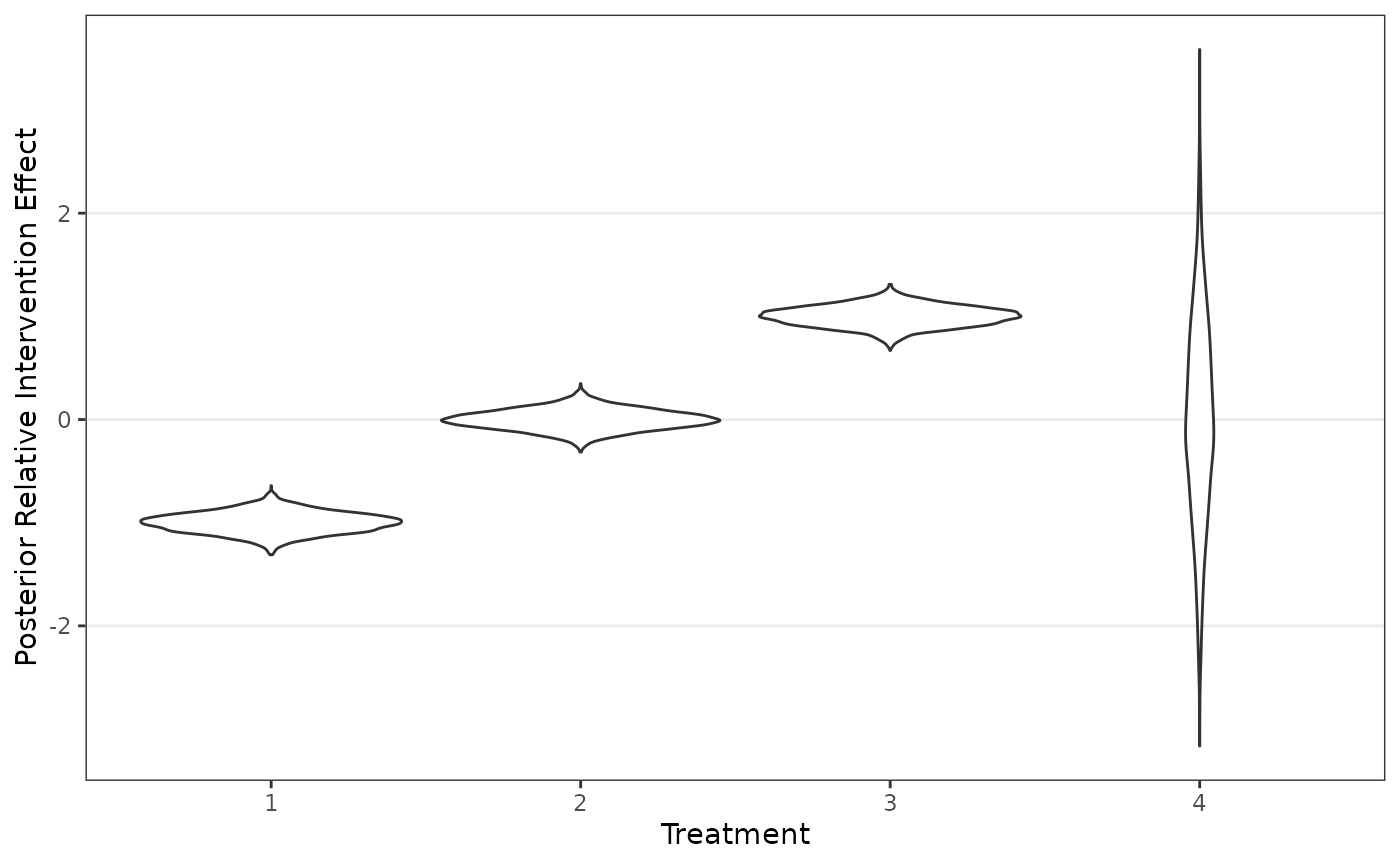
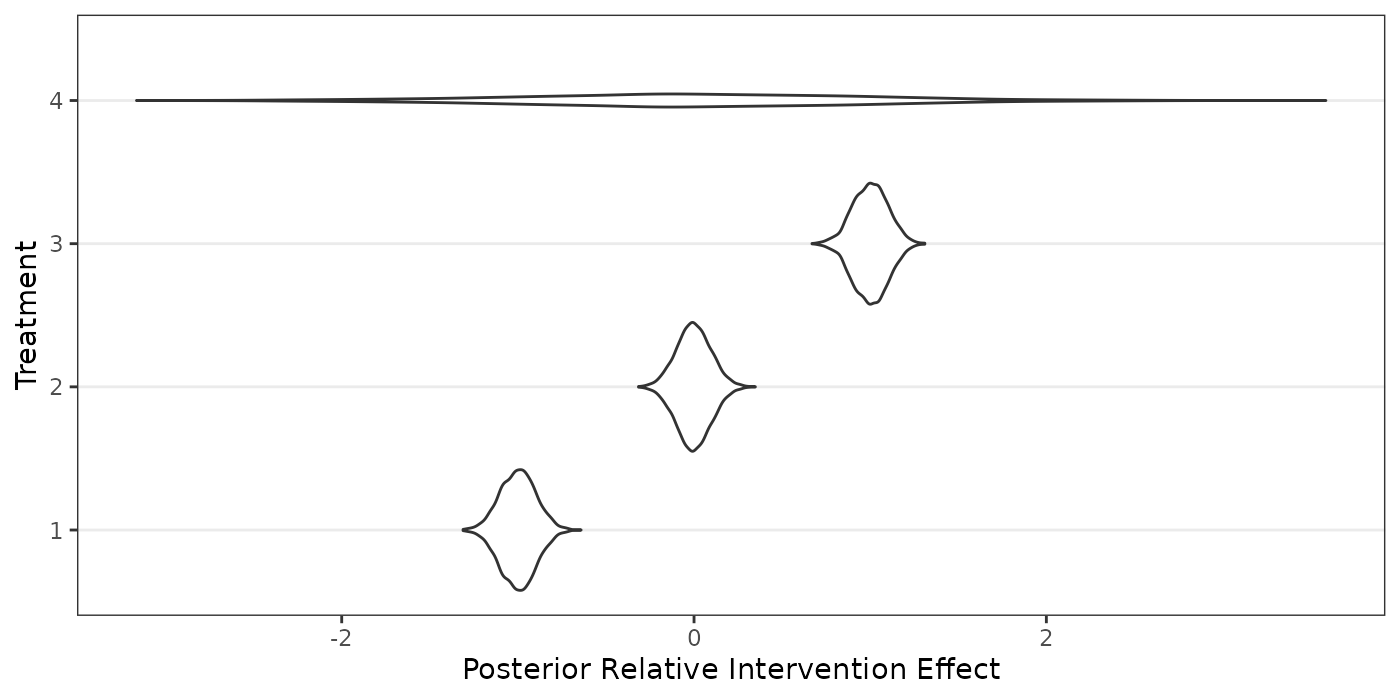
Deploying to gh-pages from @ pearce790/RaCE.NMA@e4cf61ace44ebfd546448b5421ebf51743363c7f 🚀

diff --git a/articles/tutorial.html b/articles/tutorial.html
@@ -93,27 +93,71 @@ packages.</p>
 <div class="sourceCode" id="cb2"><pre class="downlit sourceCode r">
 <code class="sourceCode R"><span><span class="va">mu_hat</span> <span class="op">&lt;-</span> <span class="fu"><a href="https://rdrr.io/r/base/c.html" class="external-link">c</a></span><span class="op">(</span><span class="op">-</span><span class="fl">1</span>, <span class="fl">0</span>, <span class="fl">1</span>, <span class="fl">0</span><span class="op">)</span></span>
 <span><span class="va">sigma_hat</span> <span class="op">&lt;-</span> <span class="fu"><a href="https://rdrr.io/r/base/c.html" class="external-link">c</a></span><span class="op">(</span><span class="fl">0.1</span>, <span class="fl">0.1</span>, <span class="fl">0.1</span>, <span class="fl">1</span><span class="op">)</span></span>
+<span><span class="va">posterior</span> <span class="op">&lt;-</span> <span class="fu"><a href="https://rdrr.io/r/base/matrix.html" class="external-link">matrix</a></span><span class="op">(</span><span class="fu"><a href="https://rdrr.io/r/stats/Normal.html" class="external-link">rnorm</a></span><span class="op">(</span><span class="fl">10000</span>,mean<span class="op">=</span><span class="va">mu_hat</span>,sd<span class="op">=</span><span class="va">sigma_hat</span><span class="op">)</span>,ncol<span class="op">=</span><span class="fl">4</span>,byrow<span class="op">=</span><span class="cn">T</span><span class="op">)</span></span>
 <span></span>
-<span></span>
-<span><span class="va">data</span> <span class="op">&lt;-</span> <span class="fu"><a href="https://rdrr.io/r/base/t.html" class="external-link">t</a></span><span class="op">(</span><span class="fu"><a href="https://rdrr.io/r/base/matrix.html" class="external-link">matrix</a></span><span class="op">(</span><span class="fu"><a href="https://rdrr.io/r/stats/Normal.html" class="external-link">rnorm</a></span><span class="op">(</span><span class="fl">10000</span>,mean<span class="op">=</span><span class="va">mu_hat</span>,sd<span class="op">=</span><span class="va">sigma_hat</span><span class="op">)</span>,nrow<span class="op">=</span><span class="fl">4</span><span class="op">)</span><span class="op">)</span></span>
-<span><span class="fu"><a href="https://ggplot2.tidyverse.org/reference/ggplot.html" class="external-link">ggplot</a></span><span class="op">(</span><span class="fu"><a href="https://rdrr.io/r/base/as.data.frame.html" class="external-link">as.data.frame</a></span><span class="op">(</span><span class="fu"><a href="https://rdrr.io/pkg/reshape2/man/melt.html" class="external-link">melt</a></span><span class="op">(</span><span class="va">data</span><span class="op">)</span><span class="op">)</span>,<span class="fu"><a href="https://ggplot2.tidyverse.org/reference/aes.html" class="external-link">aes</a></span><span class="op">(</span>x<span class="op">=</span><span class="fu"><a href="https://rdrr.io/r/base/factor.html" class="external-link">factor</a></span><span class="op">(</span><span class="va">Var2</span><span class="op">)</span>,y<span class="op">=</span><span class="va">value</span><span class="op">)</span><span class="op">)</span><span class="op">+</span></span>
+<span><span class="fu"><a href="https://ggplot2.tidyverse.org/reference/ggplot.html" class="external-link">ggplot</a></span><span class="op">(</span><span class="fu"><a href="https://rdrr.io/pkg/reshape2/man/melt.html" class="external-link">melt</a></span><span class="op">(</span><span class="va">posterior</span><span class="op">)</span>,<span class="fu"><a href="https://ggplot2.tidyverse.org/reference/aes.html" class="external-link">aes</a></span><span class="op">(</span>y<span class="op">=</span><span class="fu"><a href="https://rdrr.io/r/base/factor.html" class="external-link">factor</a></span><span class="op">(</span><span class="va">Var2</span><span class="op">)</span>,x<span class="op">=</span><span class="va">value</span><span class="op">)</span><span class="op">)</span><span class="op">+</span></span>
 <span>  <span class="fu"><a href="https://ggplot2.tidyverse.org/reference/geom_violin.html" class="external-link">geom_violin</a></span><span class="op">(</span><span class="op">)</span><span class="op">+</span><span class="fu"><a href="https://ggplot2.tidyverse.org/reference/ggtheme.html" class="external-link">theme_bw</a></span><span class="op">(</span><span class="op">)</span><span class="op">+</span><span class="fu"><a href="https://ggplot2.tidyverse.org/reference/theme.html" class="external-link">theme</a></span><span class="op">(</span>panel.grid.minor <span class="op">=</span> <span class="fu"><a href="https://ggplot2.tidyverse.org/reference/element.html" class="external-link">element_blank</a></span><span class="op">(</span><span class="op">)</span>,panel.grid.major.x <span class="op">=</span> <span class="fu"><a href="https://ggplot2.tidyverse.org/reference/element.html" class="external-link">element_blank</a></span><span class="op">(</span><span class="op">)</span><span class="op">)</span><span class="op">+</span></span>
-<span>  <span class="fu"><a href="https://ggplot2.tidyverse.org/reference/labs.html" class="external-link">labs</a></span><span class="op">(</span>x<span class="op">=</span><span class="st">"Treatment"</span>,y<span class="op">=</span><span class="st">"Posterior Relative Intervention Effect"</span><span class="op">)</span></span></code></pre></div>
+<span>  <span class="fu"><a href="https://ggplot2.tidyverse.org/reference/labs.html" class="external-link">labs</a></span><span class="op">(</span>y<span class="op">=</span><span class="st">"Treatment"</span>,x<span class="op">=</span><span class="st">"Posterior Relative Intervention Effect"</span><span class="op">)</span></span></code></pre></div>
 <p><img src="tutorial_files/figure-html/unnamed-chunk-3-1.png" width="700"></p>
 </div>
 <div class="section level2">
 <h2 id="estimation">Estimation<a class="anchor" aria-label="anchor" href="#estimation"></a>
 </h2>
 <p>Now, let’s fit the RaCE model to our data.</p>
-<p>First, we ensure the chains have converged by assessing trace plots
-of
+<div class="sourceCode" id="cb3"><pre class="downlit sourceCode r">
+<code class="sourceCode R"><span><span class="va">mcmc</span> <span class="op">&lt;-</span> <span class="fu"><a href="../reference/mcmc_RCMVN.html">mcmc_RCMVN</a></span><span class="op">(</span>posterior <span class="op">=</span> <span class="va">posterior</span><span class="op">)</span></span>
+<span><span class="co">#&gt; [1] "Estimating chain 1 of 2."</span></span>
+<span><span class="co">#&gt; [1] "Estimating chain 2 of 2."</span></span></code></pre></div>
+<p>Before proceeding, we ensure the chains have converged by assessing
+trace plots of
 <math display="inline" xmlns="http://www.w3.org/1998/Math/MathML"><semantics><mi>K</mi><annotation encoding="application/x-tex">K</annotation></semantics></math>
 and
-<math display="inline" xmlns="http://www.w3.org/1998/Math/MathML"><semantics><msub><mi>μ</mi><mi>j</mi></msub><annotation encoding="application/x-tex">\mu_j</annotation></semantics></math>.</p>
+<math display="inline" xmlns="http://www.w3.org/1998/Math/MathML"><semantics><msub><mi>μ</mi><mi>j</mi></msub><annotation encoding="application/x-tex">\mu_j</annotation></semantics></math>
+and by calculating the
+<math display="inline" xmlns="http://www.w3.org/1998/Math/MathML"><semantics><mover><mi>R</mi><mo accent="true">̂</mo></mover><annotation encoding="application/x-tex">\hat{R}</annotation></semantics></math>
+of each
+<math display="inline" xmlns="http://www.w3.org/1998/Math/MathML"><semantics><msub><mi>μ</mi><mi>j</mi></msub><annotation encoding="application/x-tex">\mu_j</annotation></semantics></math>
+parameter.</p>
+<div class="sourceCode" id="cb4"><pre class="downlit sourceCode r">
+<code class="sourceCode R"><span><span class="fu"><a href="../reference/createtrace_omega.html">createtrace_omega</a></span><span class="op">(</span><span class="va">mcmc</span><span class="op">)</span></span></code></pre></div>
+<p><img src="tutorial_files/figure-html/unnamed-chunk-5-1.png" width="700"></p>
+<div class="sourceCode" id="cb5"><pre class="downlit sourceCode r">
+<code class="sourceCode R"><span><span class="fu"><a href="../reference/createtrace_K.html">createtrace_K</a></span><span class="op">(</span><span class="va">mcmc</span><span class="op">)</span></span></code></pre></div>
+<p><img src="tutorial_files/figure-html/unnamed-chunk-5-2.png" width="700"></p>
+<div class="sourceCode" id="cb6"><pre class="downlit sourceCode r">
+<code class="sourceCode R"><span><span class="fu"><a href="../reference/calculate_Rhat.html">calculate_Rhat</a></span><span class="op">(</span><span class="va">mcmc</span><span class="op">)</span></span>
+<span><span class="co">#&gt; Potential scale reduction factors:</span></span>
+<span><span class="co">#&gt; </span></span>
+<span><span class="co">#&gt;        Point est. Upper C.I.</span></span>
+<span><span class="co">#&gt; omega1          1       1.00</span></span>
+<span><span class="co">#&gt; omega2          1       1.01</span></span>
+<span><span class="co">#&gt; omega3          1       1.00</span></span>
+<span><span class="co">#&gt; omega4          1       1.01</span></span></code></pre></div>
 </div>
 <div class="section level2">
 <h2 id="inference">Inference<a class="anchor" aria-label="anchor" href="#inference"></a>
 </h2>
+<p>Often, we are most interested in creating a clustering probability
+matrix and a cumulative ranking curve. We create these plots in the code
+chunks below.</p>
+<div class="sourceCode" id="cb7"><pre class="downlit sourceCode r">
+<code class="sourceCode R"><span><span class="fu"><a href="../reference/create_clustermatrix.html">create_clustermatrix</a></span><span class="op">(</span><span class="va">mcmc</span>, label_ranks <span class="op">=</span> <span class="fl">1</span><span class="op">:</span><span class="fl">4</span><span class="op">)</span></span>
+<span><span class="co">#&gt; Warning: `label` cannot be a <span style="color: #0000BB;">&lt;ggplot2::element_blank&gt;</span> object.</span></span></code></pre></div>
+<p><img src="tutorial_files/figure-html/unnamed-chunk-6-1.png" width="700"></p>
+<div class="sourceCode" id="cb8"><pre class="downlit sourceCode r">
+<code class="sourceCode R"><span><span class="fu"><a href="../reference/create_cumulativeranking.html">create_cumulativeranking</a></span><span class="op">(</span><span class="va">mcmc</span><span class="op">)</span></span>
+<span><span class="co">#&gt; Warning: `label` cannot be a <span style="color: #0000BB;">&lt;ggplot2::element_blank&gt;</span> object.</span></span></code></pre></div>
+<p><img src="tutorial_files/figure-html/unnamed-chunk-7-1.png" width="700"></p>
+<p>The package also includes functions to produce violin and forest
+plots of model posteriors.</p>
+<div class="sourceCode" id="cb9"><pre class="downlit sourceCode r">
+<code class="sourceCode R"><span><span class="fu"><a href="../reference/create_violinplot.html">create_violinplot</a></span><span class="op">(</span><span class="va">mcmc</span><span class="op">)</span></span>
+<span><span class="co">#&gt; Warning: `label` cannot be a <span style="color: #0000BB;">&lt;ggplot2::element_blank&gt;</span> object.</span></span></code></pre></div>
+<p><img src="tutorial_files/figure-html/unnamed-chunk-8-1.png" width="700"></p>
+<div class="sourceCode" id="cb10"><pre class="downlit sourceCode r">
+<code class="sourceCode R"><span><span class="fu"><a href="../reference/create_forestplot.html">create_forestplot</a></span><span class="op">(</span><span class="va">mcmc</span><span class="op">)</span></span>
+<span><span class="co">#&gt; Warning: `label` cannot be a <span style="color: #0000BB;">&lt;ggplot2::element_blank&gt;</span> object.</span></span></code></pre></div>
+<p><img src="tutorial_files/figure-html/unnamed-chunk-8-2.png" width="700"></p>
 </div>
   </div>
 

diff --git a/articles/overview.html b/articles/overview.html
@@ -79,10 +79,12 @@
     
     
 <p>This package implements the Rank-Clustered Estimation for Network
-Meta-Analysis of Pearce and Zhou (2025+).</p>
+Meta-Analysis of Pearce and Zhou (2025).</p>
 <p>For more details on how to use this package, see the <a href="https://pearce790.github.io/RaCE.NMA/tutorial.html">Tutorial</a>
 and <a href="https://pearce790.github.io/RaCE.NMA/reference/index.html">Reference</a>
-pages on this website.</p>
+pages on this website. For code to reproduce the analyses presented in
+our paper, see the <a href="https://pearce790.github.io/RaCE.NMA/articles/reproducibility.html">Reproducibility</a>
+page.</p>
 <p>The package is currently in beta testing. You may install the package
 from Github using the following code:</p>
 <div class="sourceCode" id="cb1"><pre class="downlit sourceCode r">
